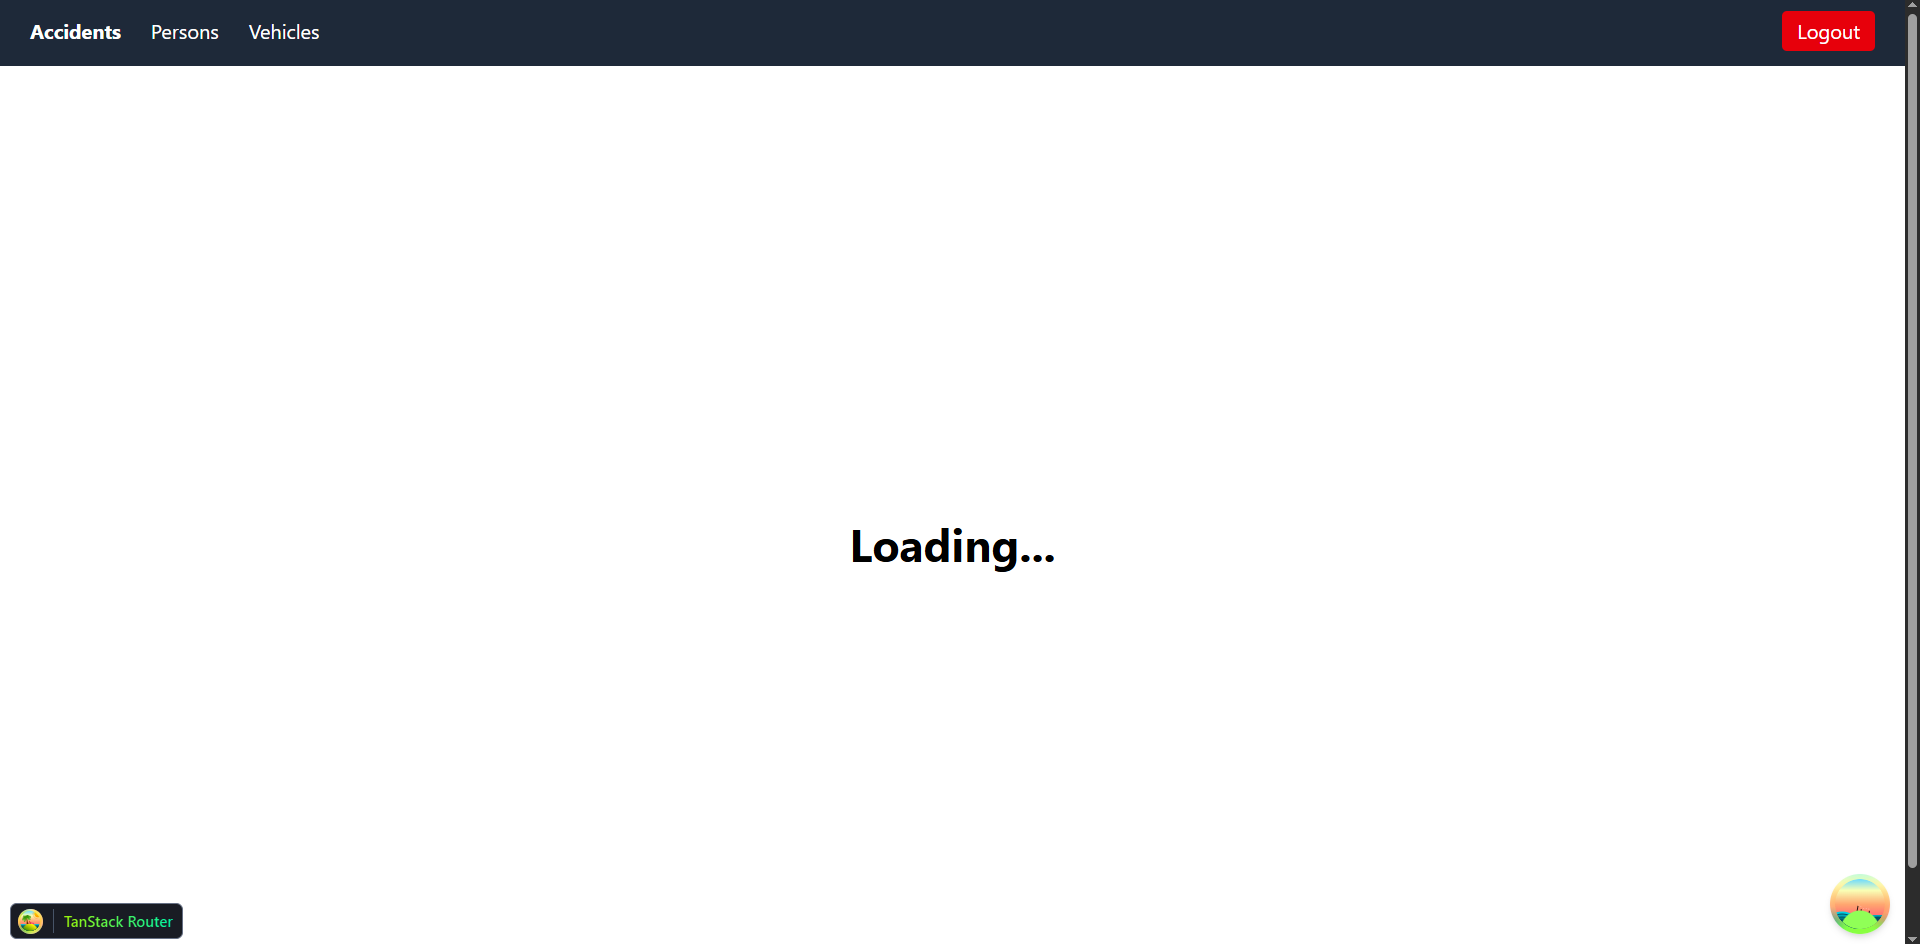
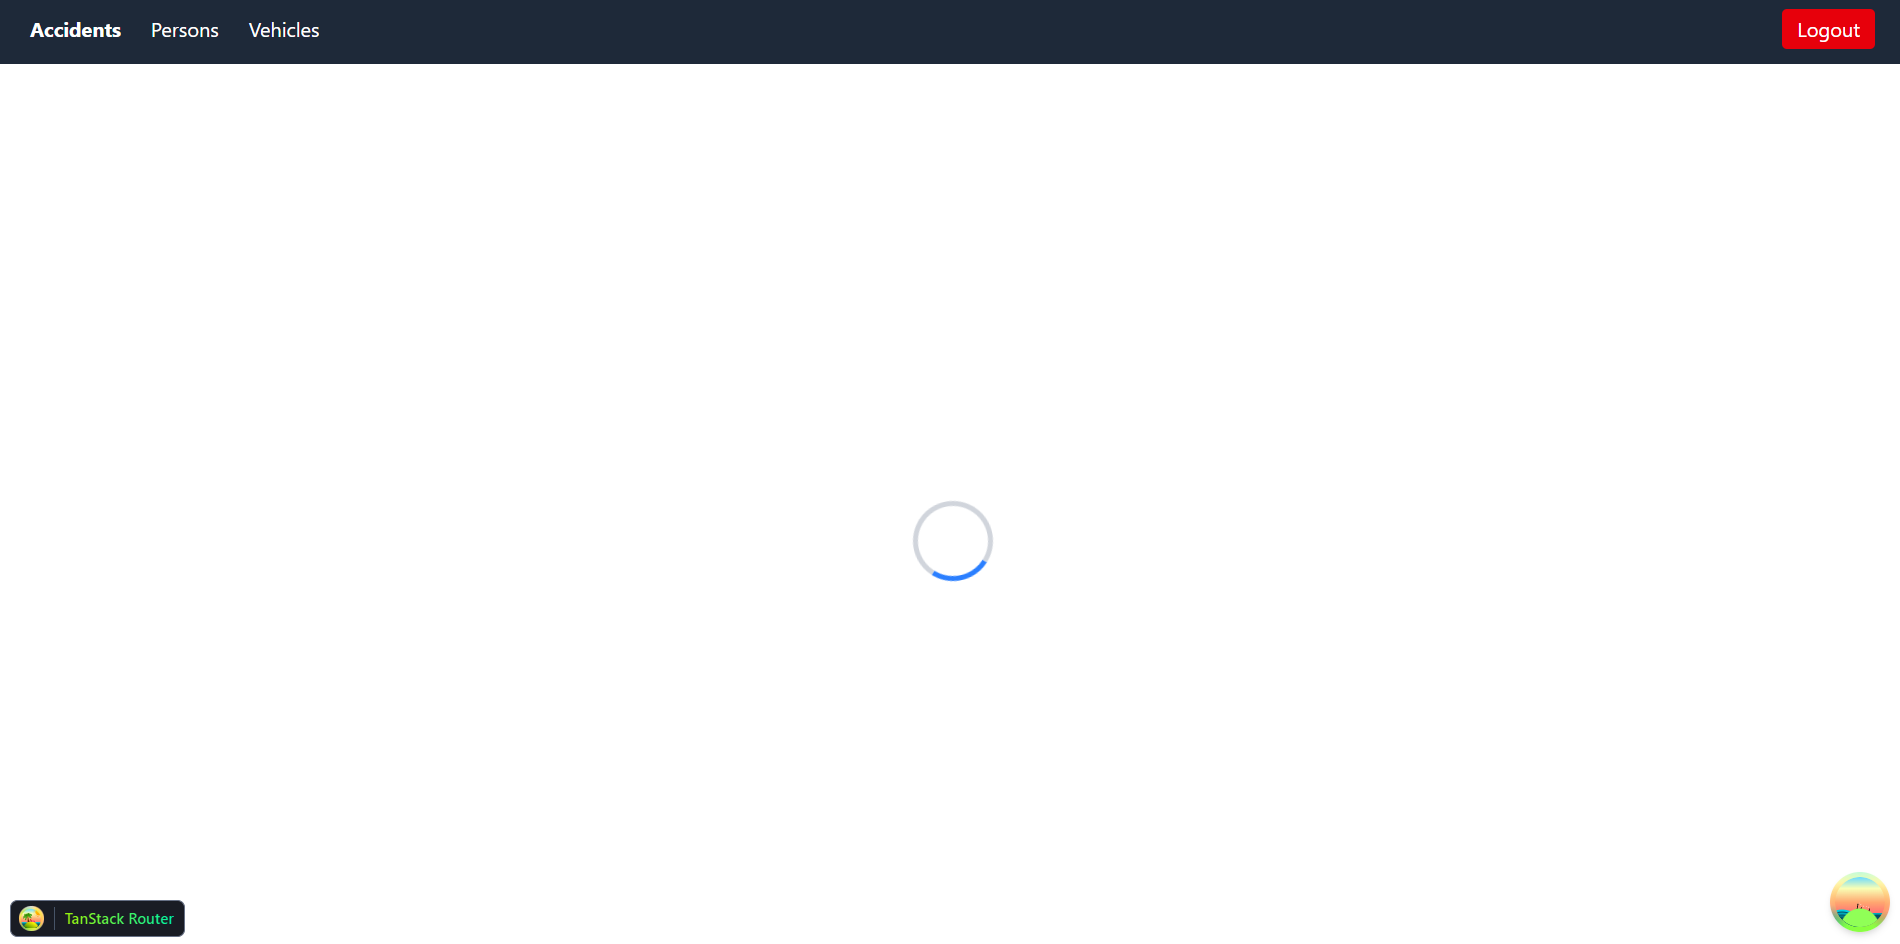
feat: add loading animation

diff --git a/src/features/accidents/pages/AccidentsListPage.tsx b/src/features/accidents/pages/AccidentsListPage.tsx
@@ -3,6 +3,7 @@ import { useAccidents, useDeleteAccident } from '../api';
 import type { ReactElement } from "react";
 import type { Accident } from "../types";
 import { Route } from "../../../routes/accidents.tsx";
+import { loadingAnimation } from "../../../common/elements.tsx";
 
 type AccidentsResponse = {
 	message: string;
@@ -18,7 +19,7 @@ export function AccidentsListPage(): ReactElement {
 		}
 	};
 
-	if (isLoading) return <div className="flex items-center justify-center h-screen text-4xl font-bold">Loading...</div>;
+	if (isLoading) return loadingAnimation();
 
 	if (isError) return <div className="flex items-center justify-center h-screen text-4xl font-bold">Error loading accidents: {error.message}</div>;
 

diff --git a/src/features/persons/pages/PersonsListPage.tsx b/src/features/persons/pages/PersonsListPage.tsx
@@ -3,6 +3,7 @@ import { usePersons, useDeletePerson } from '../api';
 import type { ReactElement } from "react";
 import type { Person } from "../types";
 import { Route } from "../../../routes/persons.tsx";
+import { loadingAnimation } from "../../../common/elements.tsx";
 
 export type PersonsResponse = {
 	message: string;
@@ -18,7 +19,7 @@ export function PersonsListPage(): ReactElement {
 		}
 	};
 
-	if (isLoading) return <div className="flex items-center justify-center h-screen text-4xl font-bold">Loading...</div>;
+	if (isLoading) return loadingAnimation();
 
 	if (isError) return <div className="flex items-center justify-center h-screen text-4xl font-bold">Error loading persons: {error.message}</div>;
 

diff --git a/src/features/vehicles/pages/VehiclesListPage.tsx b/src/features/vehicles/pages/VehiclesListPage.tsx
@@ -3,6 +3,7 @@ import { useVehicles, useDeleteVehicle } from '../api';
 import type { ReactElement } from "react";
 import type { Vehicle } from "../types";
 import { Route } from "../../../routes/vehicles.tsx";
+import { loadingAnimation } from "../../../common/elements.tsx";
 
 type VehiclesResponse = {
 	message: string;
@@ -18,7 +19,7 @@ export function VehiclesListPage(): ReactElement {
 		}
 	};
 
-	if (isLoading) return <div className="flex items-center justify-center h-screen text-4xl font-bold">Loading...</div>;
+	if (isLoading) return loadingAnimation();
 
 	if (isError) return <div className="flex items-center justify-center h-screen text-4xl font-bold">Error loading vehicles: {error.message}</div>;
 

diff --git a/src/common/elements.tsx b/src/common/elements.tsx
@@ -1,0 +1,9 @@
+import type { ReactElement } from "react";
+
+export const loadingAnimation = (): ReactElement => {
+	return (
+		<div className="flex items-center justify-center h-screen">
+			<div className="w-16 h-16 border-4 border-gray-300 border-t-blue-500 rounded-full animate-spin" />
+		</div>
+	);
+}
